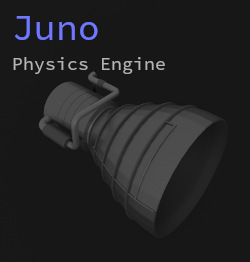
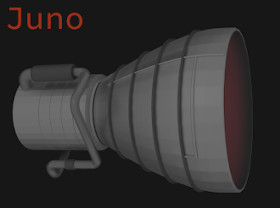
new stuff added to projects page

diff --git a/my_projects.html b/my_projects.html
@@ -14,29 +14,27 @@
         <div class="container0">
             <br><br><br>
             <p id="p0">
-                <img id="juno_image" alt="something went wrong :/"  src="./photos/juno-s.jpg">
+                <img id="juno_image" alt="something went wrong :/"  src="./photos/juno3D.jpg">
 
-                My current project I am working on is a real-time physics simulation renderer using modern openGL.
-                Although its intended purpose is simulating particle systems and working with simple geometry, it can load any 3D models that are in a wavefront file format.
-                You can view the project <a id="project_link" href="https://github.com/jimdox/Juno" target="_blank"> here. </a>
+                My current project I am working on is a physics simulation engine with real-time rendering in Vulkan. If your hardware isn't well supported on Vulkan, there is a compatibility build that uses OpenGL instead. </br><a id="project_link" href="https://github.com/jimdox/Juno" target="_blank"> You can view the project here. </a>
                 
         
         
             <p>  
-                <a id="project_link" href="https://github.com/jimdox/jpl" target="_blank"> "Jim's Physics Library" </a> is my supporting vector math library for doing computational physics projects, but with some added utilities. The vectors use 80-bit precision, which is not optimal for speed, but this is offset by the introduction of less error in computation-heavy simulations.
+                <a id="project_link" href="https://github.com/jimdox/jpl" target="_blank"> "Jim's Physics Library (JPL)" </a> is a simple vector math library which, although does not have SIMD optimizations and therefore is not particularly fast, was sufficient for past, less computationally intensive physics projects.  
             </p>
             
             <p>
-                <a id="project_link" href="https://github.com/jimdox/ORBT" target="_blank"> ORBT </a> was my first dive into graphics programming in OpenGL using the Lightweight Java Game Library, or LWJGL. 
-                                        This was a great learning experience for me as far as developing an understanding of some the core concepts of computer graphics, such as common shader techniques, and how to import a 3D model, and how to store that data on the GPU.
+                <a id="project_link" href="https://github.com/jimdox/ORBT" target="_blank"> ORBT </a> was my first dive into graphics programming in OpenGL using the Lightweight Java Game Library (LWJGL). 
+                                        This was a great learning experience for me to get a grasp on the basics of modern OpenGL and rendering techniques. 
             </p>
 
             <p>    
-                <a id="project_link" href="https://github.com/jimdox/haskmat" target="_blank"> Haskmat </a> is essentially the Haskell vector math library that no one asked for. It also includes data structures like linked-lists, queues, and some other things that also probably don't belong in Haskell. :P
+                <a id="project_link" href="https://github.com/jimdox/haskmat" target="_blank"> Haskmat </a> is basically the Haskell vector math library that no one asked for. It also includes data structures like linked-lists, queues, and some other things that also probably don't belong in Haskell. :P
             </p>
 
             <p>    
-                In my Intro to Computational Physics class I got to work on a lot of cool projects, like n-body simulation: <br> <img id="n-body" alt="something went wrong :/"  src="./photos/n-body-example.gif">
+                Soon I'll be starting a series of reimplementing a few example projects from my Computational Physics class in Juno! I will post some pictures here, but may start a blog to go along with the development. 
                 
 
             </p>

diff --git a/css/projects.css b/css/projects.css
@@ -92,10 +92,10 @@ img
 
 #juno_image
 {
-    width: 250px;
-    height: 262px;
+    width: 256px;
+    height: 256px;
     border: 1px;
-    margin: -1% 0 0 -41%;
+    margin: -1% 0 0 -44%;
     float: left;
 }
 
@@ -131,7 +131,7 @@ p
     border: 2px solid #313131; 
     background-color: #232323;
     padding-top: 7px;
-    padding-bottom: 158px;
+    padding-bottom: 150px;
 
 }
 
